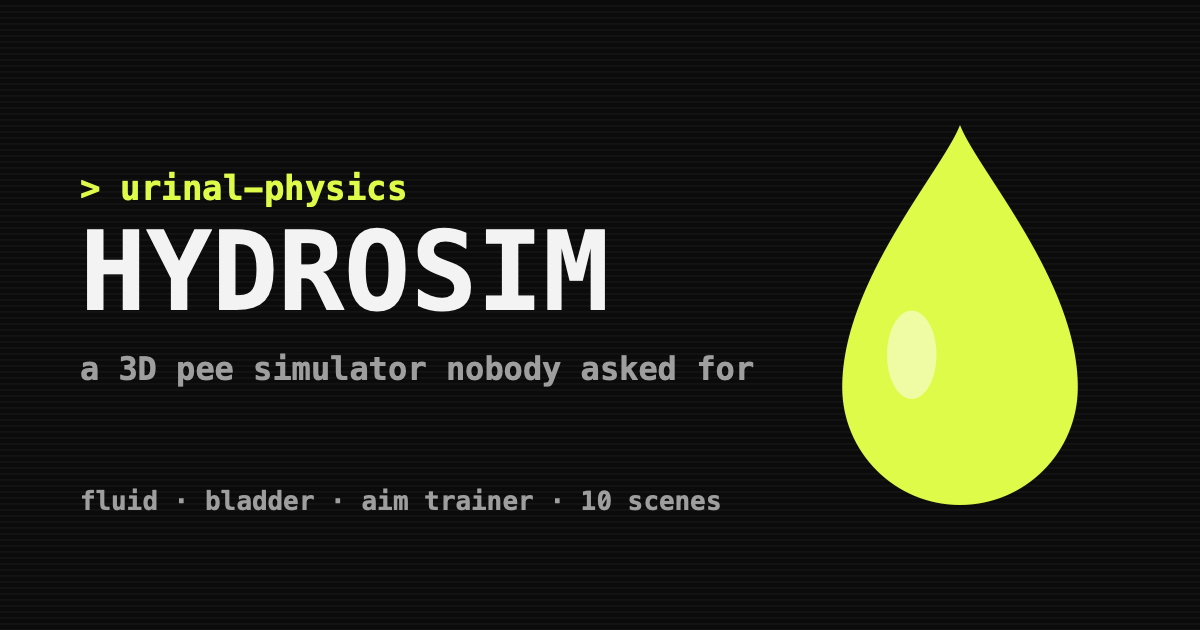
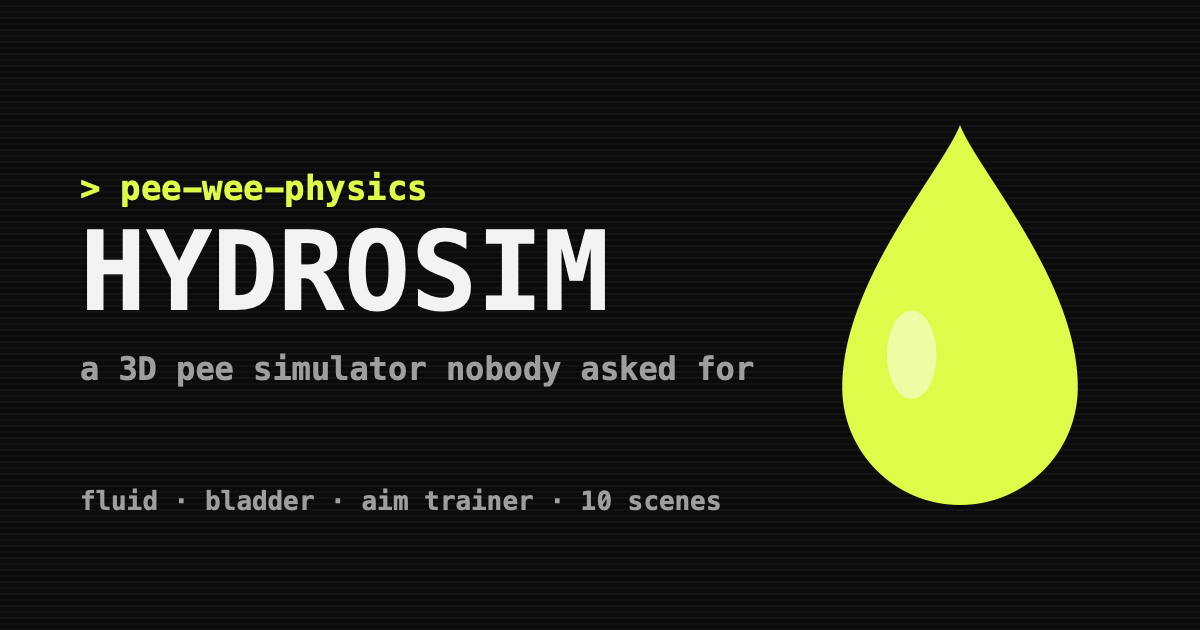
Rename to pee-wee-physics
Update the site links, page titles, share meta tags, README, splash banner and link preview image for the new repo name.

Changed region(s): [[0.0925, 0.2714, 0.37, 0.3317]]

diff --git a/index.html b/index.html
@@ -3,20 +3,20 @@
 <head>
 <meta charset="utf-8" />
 <meta name="viewport" content="width=device-width,initial-scale=1" />
-<title>urinal-physics</title>
+<title>pee-wee-physics</title>
 <link rel="icon" type="image/svg+xml" href="assets/favicon.svg" />
 <link rel="apple-touch-icon" href="assets/icon-180.png" />
 <meta property="og:type" content="website" />
-<meta property="og:title" content="urinal-physics" />
+<meta property="og:title" content="pee-wee-physics" />
 <meta property="og:description" content="A 3D pee simulator nobody asked for: fluid arcs, bladder physics, an aim trainer and 10 scenes." />
-<meta property="og:url" content="https://yesjermo.github.io/urinal-physics/" />
-<meta property="og:image" content="https://yesjermo.github.io/urinal-physics/assets/og.png" />
+<meta property="og:url" content="https://yesjermo.github.io/pee-wee-physics/" />
+<meta property="og:image" content="https://yesjermo.github.io/pee-wee-physics/assets/og.png" />
 <meta property="og:image:width" content="1200" />
 <meta property="og:image:height" content="630" />
 <meta name="twitter:card" content="summary_large_image" />
-<meta name="twitter:title" content="urinal-physics" />
+<meta name="twitter:title" content="pee-wee-physics" />
 <meta name="twitter:description" content="A 3D pee simulator nobody asked for: fluid arcs, bladder physics, an aim trainer and 10 scenes." />
-<meta name="twitter:image" content="https://yesjermo.github.io/urinal-physics/assets/og.png" />
+<meta name="twitter:image" content="https://yesjermo.github.io/pee-wee-physics/assets/og.png" />
 <meta name="description" content="Interactive 3D fluid dynamics and spatial audio simulator: bladder mechanics, urine color dynamics, fluid arcs and synthesized liquid acoustics." />
 <link rel="preconnect" href="https://fonts.googleapis.com" />
 <link href="https://fonts.googleapis.com/css2?family=JetBrains+Mono:wght@400;600&family=Noto+Serif+JP:wght@300&display=swap" rel="stylesheet" />
@@ -56,7 +56,7 @@
 <body>
 
 <!-- The full simulator, exactly as on simulator.html -->
-<iframe id="app" src="simulator.html?scene=field&amp;autostart&amp;view=field" title="urinal-physics: 3D hydration and fluid simulator" allow="autoplay; fullscreen"></iframe>
+<iframe id="app" src="simulator.html?scene=field&amp;autostart&amp;view=field" title="pee-wee-physics: 3D hydration and fluid simulator" allow="autoplay; fullscreen"></iframe>
 
 <!-- Splash intro on top -->
 <div id="splash" role="dialog" aria-label="Intro">

diff --git a/simulator.html b/simulator.html
@@ -9,14 +9,14 @@
 <meta property="og:type" content="website" />
 <meta property="og:title" content="HydroSim 3D" />
 <meta property="og:description" content="A 3D pee simulator nobody asked for: fluid arcs, bladder physics, an aim trainer and 10 scenes." />
-<meta property="og:url" content="https://yesjermo.github.io/urinal-physics/simulator.html" />
-<meta property="og:image" content="https://yesjermo.github.io/urinal-physics/assets/og.png" />
+<meta property="og:url" content="https://yesjermo.github.io/pee-wee-physics/simulator.html" />
+<meta property="og:image" content="https://yesjermo.github.io/pee-wee-physics/assets/og.png" />
 <meta property="og:image:width" content="1200" />
 <meta property="og:image:height" content="630" />
 <meta name="twitter:card" content="summary_large_image" />
 <meta name="twitter:title" content="HydroSim 3D" />
 <meta name="twitter:description" content="A 3D pee simulator nobody asked for: fluid arcs, bladder physics, an aim trainer and 10 scenes." />
-<meta name="twitter:image" content="https://yesjermo.github.io/urinal-physics/assets/og.png" />
+<meta name="twitter:image" content="https://yesjermo.github.io/pee-wee-physics/assets/og.png" />
 <link rel="preconnect" href="https://fonts.googleapis.com" />
 <link href="https://fonts.googleapis.com/css2?family=Inter:wght@400;500;600;700;800&family=JetBrains+Mono:wght@400;500;600;800&display=swap" rel="stylesheet" />
 <style>

diff --git a/README.md b/README.md
@@ -1,16 +1,16 @@
 <div align="center">
 
-<a href="https://yesjermo.github.io/urinal-physics/?splash"><img src="assets/splash.svg" alt="urinal-physics splash: click to enter" width="100%"></a>
+<a href="https://yesjermo.github.io/pee-wee-physics/?splash"><img src="assets/splash.svg" alt="pee-wee-physics splash: click to enter" width="100%"></a>
 
 <sub>▲ click the board to enter: the splash plays, then the simulator</sub>
 
-# 💛 urinal-physics 💛
+# 💛 pee-wee-physics 💛
 ### HydroSim 3D: the world's most over-engineered pee simulator
 
 *Real-time bladder physics. Procedural pee acoustics. Spatial audio. Nobody asked for this.*
 
-[![Play it now](https://img.shields.io/badge/▶_PLAY-splash_→_simulator-f5c14b?style=for-the-badge)](https://yesjermo.github.io/urinal-physics/?splash)
-[![Simulator](https://img.shields.io/badge/skip_the_intro-straight_to_the_toilet-4fd6e8?style=for-the-badge)](https://yesjermo.github.io/urinal-physics/simulator.html)
+[![Play it now](https://img.shields.io/badge/▶_PLAY-splash_→_simulator-f5c14b?style=for-the-badge)](https://yesjermo.github.io/pee-wee-physics/?splash)
+[![Simulator](https://img.shields.io/badge/skip_the_intro-straight_to_the_toilet-4fd6e8?style=for-the-badge)](https://yesjermo.github.io/pee-wee-physics/simulator.html)
 
 ![Three.js](https://img.shields.io/badge/three.js-r160-000000?logo=threedotjs&logoColor=white)
 ![Web Audio API](https://img.shields.io/badge/Web_Audio-100%25_synthesized-4fd6e8)
@@ -174,8 +174,8 @@ Yes. Drop in any rigged `.glb`. Mixamo rigs get the skeleton skin and stream pla
 ES modules don't load from `file://`, so serve the folder with literally anything:
 
 ```bash
-git clone https://github.com/yesjermo/urinal-physics.git
-cd urinal-physics
+git clone https://github.com/yesjermo/pee-wee-physics.git
+cd pee-wee-physics
 python3 -m http.server 8765
 ```
 
